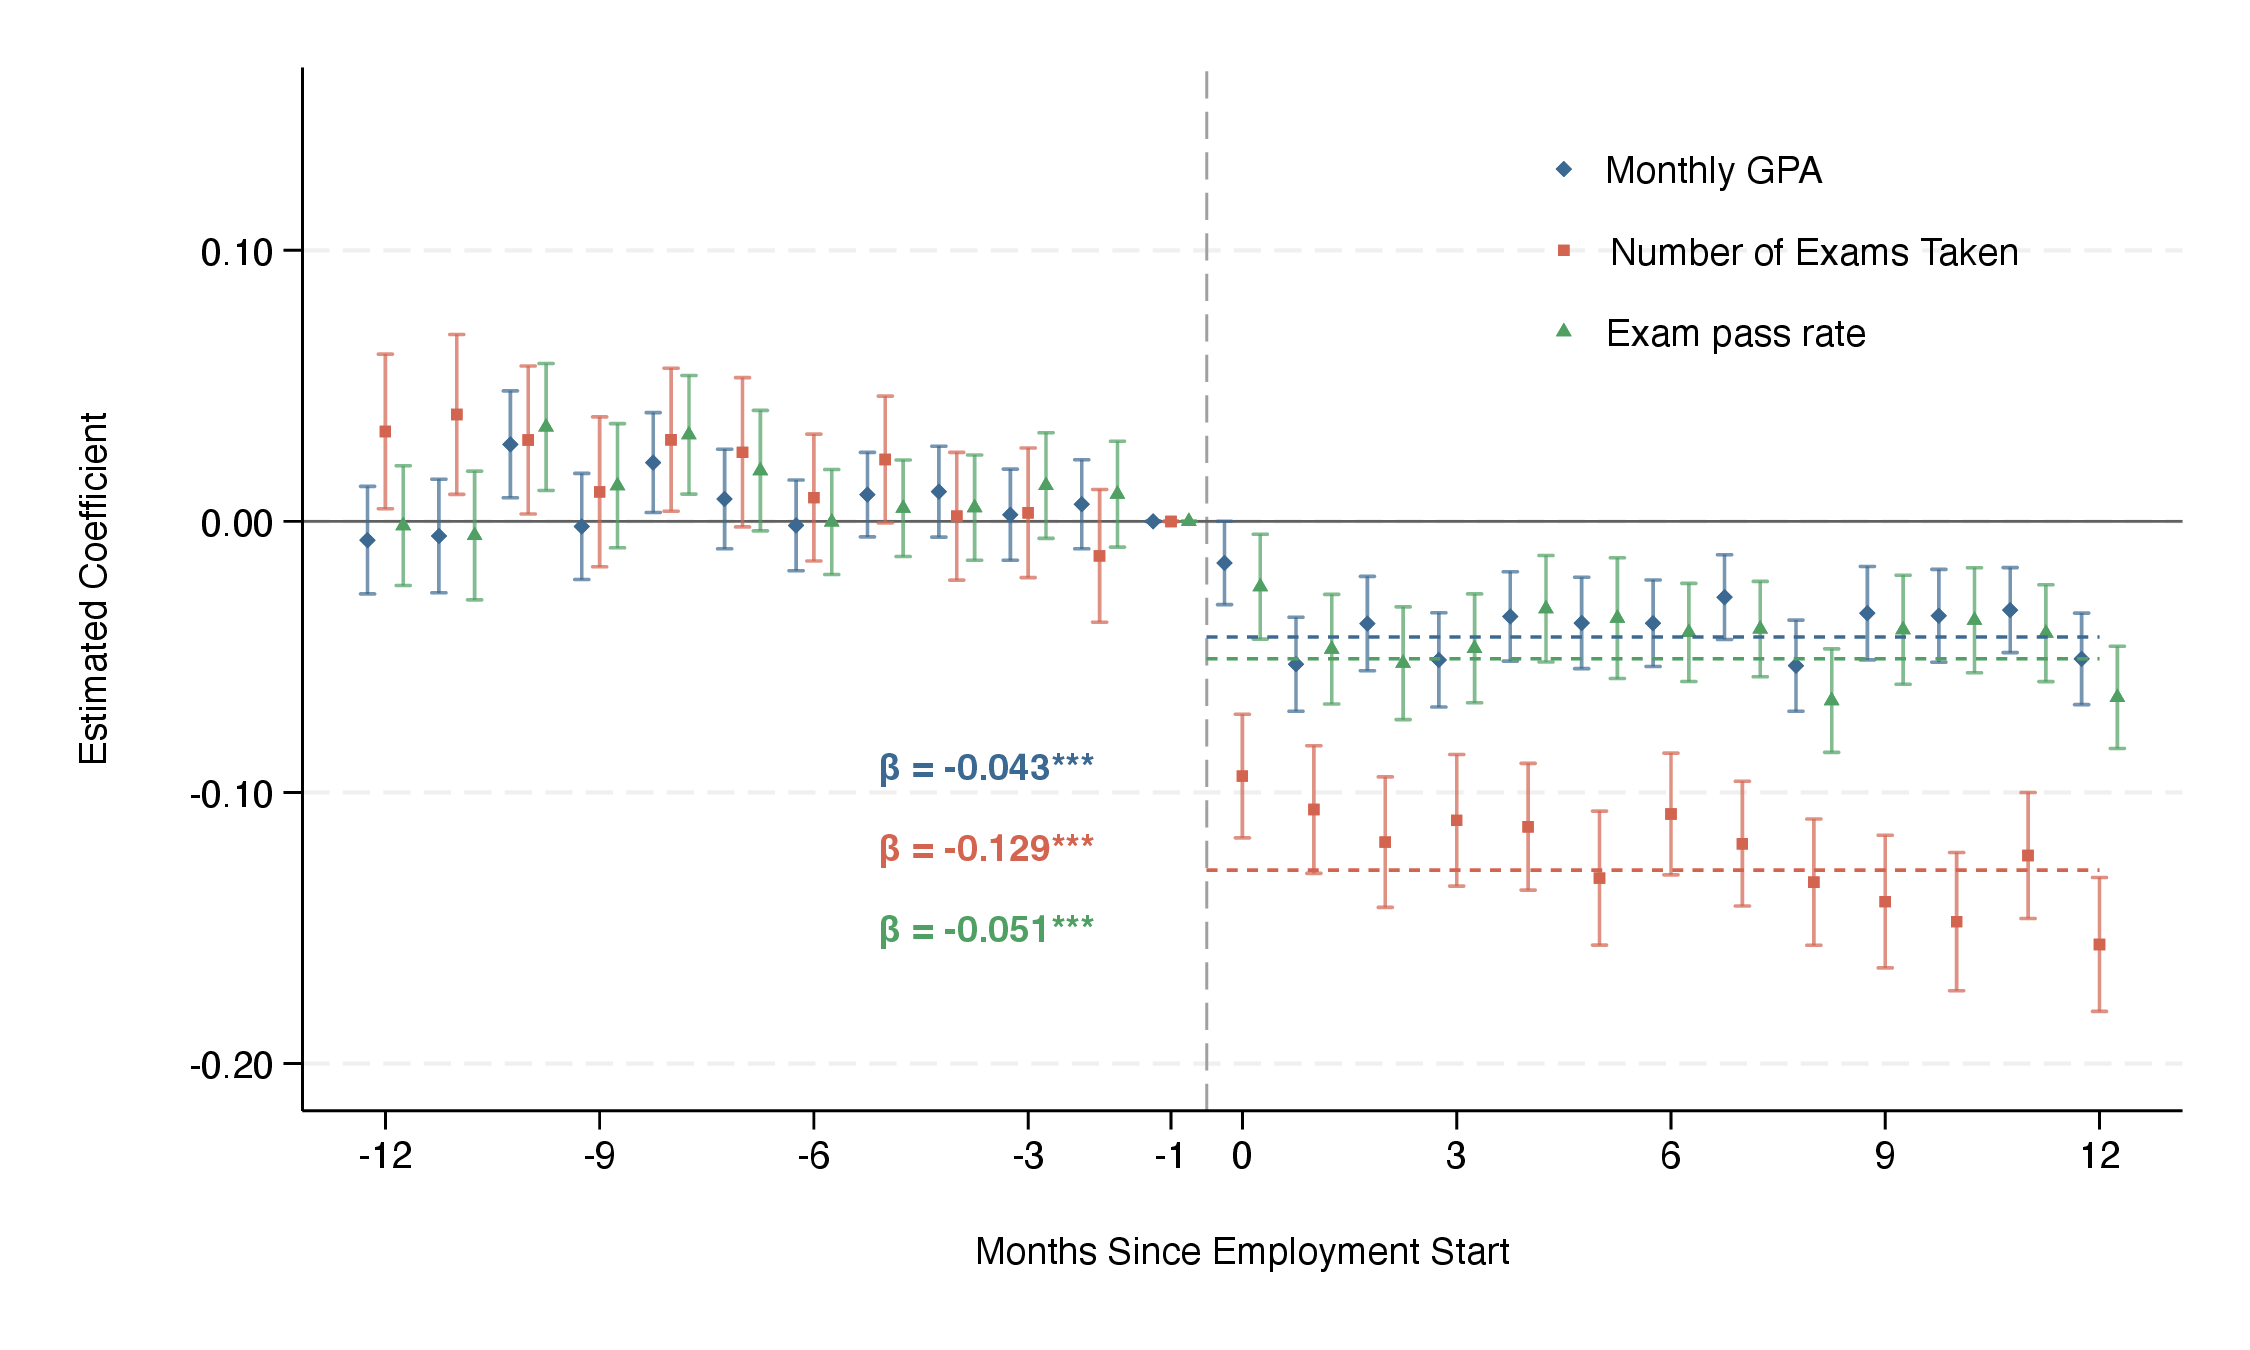
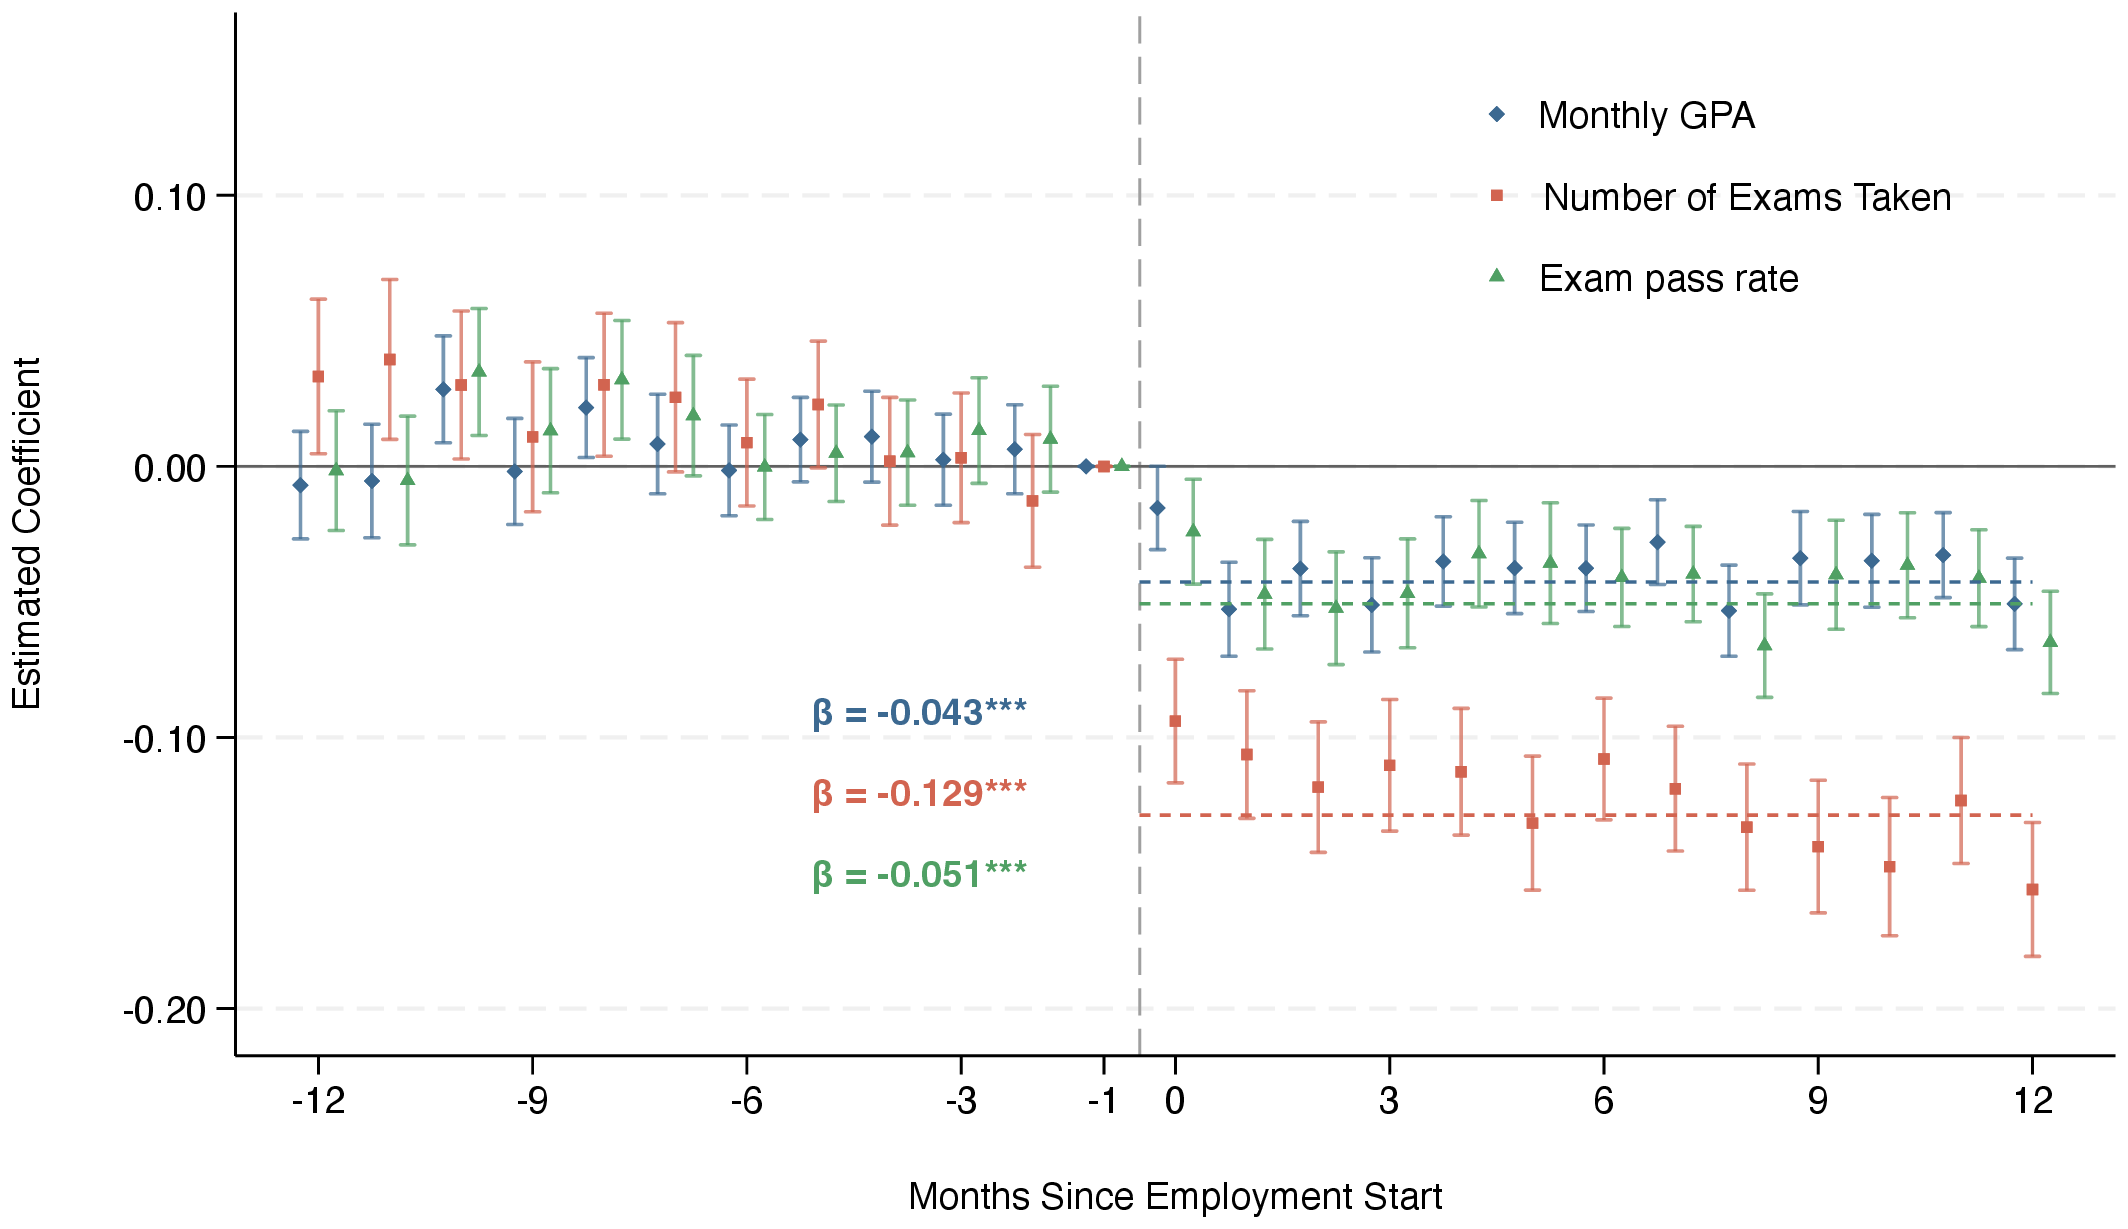
Enlarge research paper figures, reduce gap between abstract and image, and trim figure margins

diff --git a/index.css b/index.css
@@ -358,7 +358,8 @@ a:hover {
     margin-top: 1rem;
     padding-top: 1rem;
     border-top: 1px dotted #ccc;
-    gap: 1.5rem;
+    gap: 1rem;
+    align-items: center;
 }
 
 .paper-content.active {
@@ -386,17 +387,17 @@ a:hover {
 }
 
 .paper-images {
-    flex: 1;
+    flex: 1.3;
     display: flex;
     justify-content: center;
-    align-items: center; /* centers the image vertically relative to the abstract */
+    align-items: center;
 }
 
 .paper-images img {
     width: 100%;
-    height: 100%;
-    max-height: 250px; /* Caps the height to effectively match the abstract's visual paragraph */
-    object-fit: contain; /* displays the full image without cropping or distorting */
+    height: auto;
+    max-height: 420px;
+    object-fit: contain;
     border-radius: 4px;
 }
 
